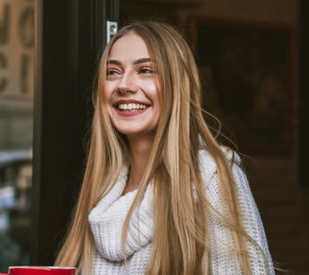
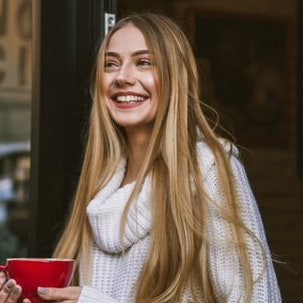
added photo and fixed the image tag

diff --git a/db/seeds.rb b/db/seeds.rb
@@ -18,13 +18,15 @@ p "Destroying Users, Groups, and Meetings.."
 
 puts "Creating users"
 
+#line_photo = File.read('app/assets/images/linelong.png')
+
 users = User.create! [
   { email: "hello@text.co",
     password: "morning",
     username: "line23",
     first_name: "Line",
     last_name: "Pederson",
-    image: "https://images.unsplash.com/photo-1541943181603-d8fe267a5dcf?ixlib=rb-1.2.1&ixid=eyJhcHBfaWQiOjEyMDd9&auto=format&fit=crop&w=312&q=80",
+    image: "line.png",
     tag_list: "UiO, psychology, paiting, python, cooking, social psychology"
   },
   { email: "honey@text.co",

diff --git a/app/models/user.rb b/app/models/user.rb
@@ -20,7 +20,7 @@ class User < ApplicationRecord
   end
 
   def set_default_image
-    self.image = "https://miro.medium.com/max/720/1*W35QUSvGpcLuxPo3SRTH4w.png"
+    self.image = "https://miro.medium.com/max/720/1*W35QUSvGpcLuxPo3SRTH4w.png" if image.nil?
   end
 
   def no_image?
